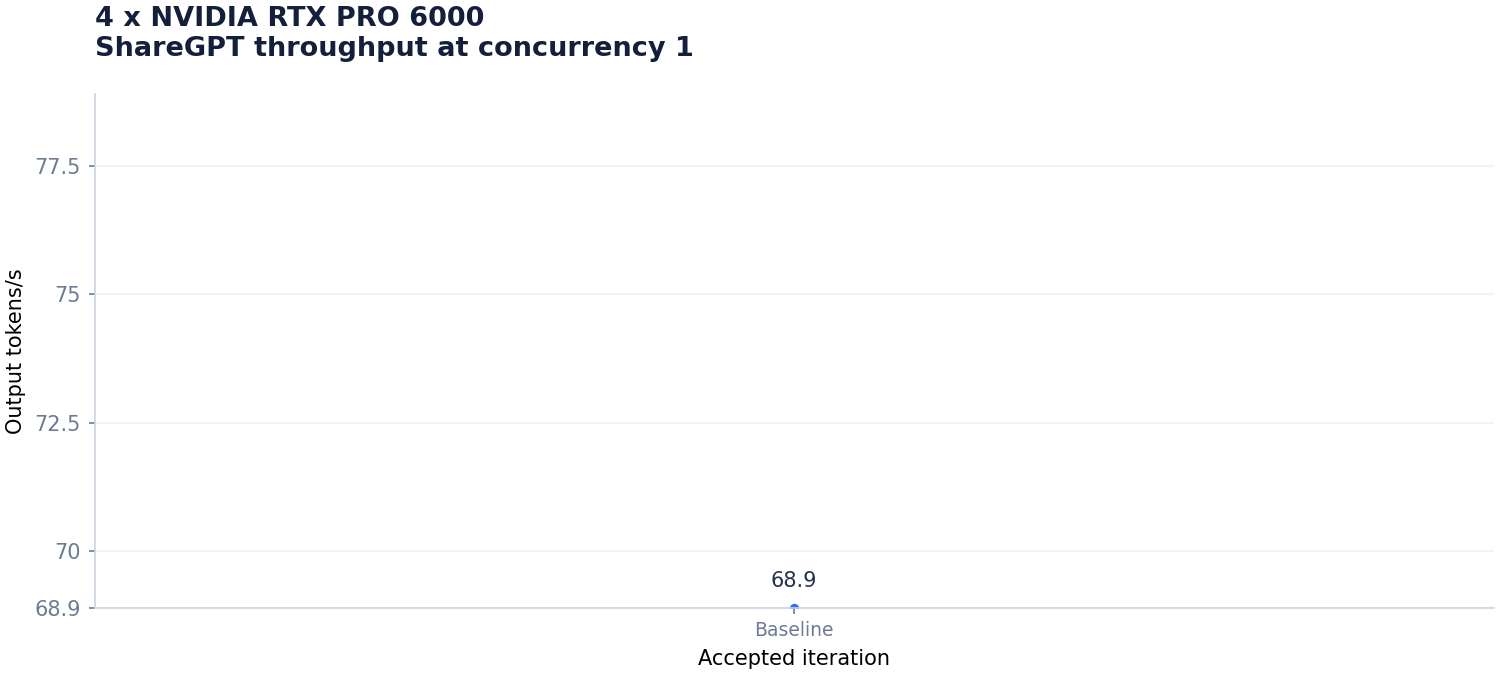
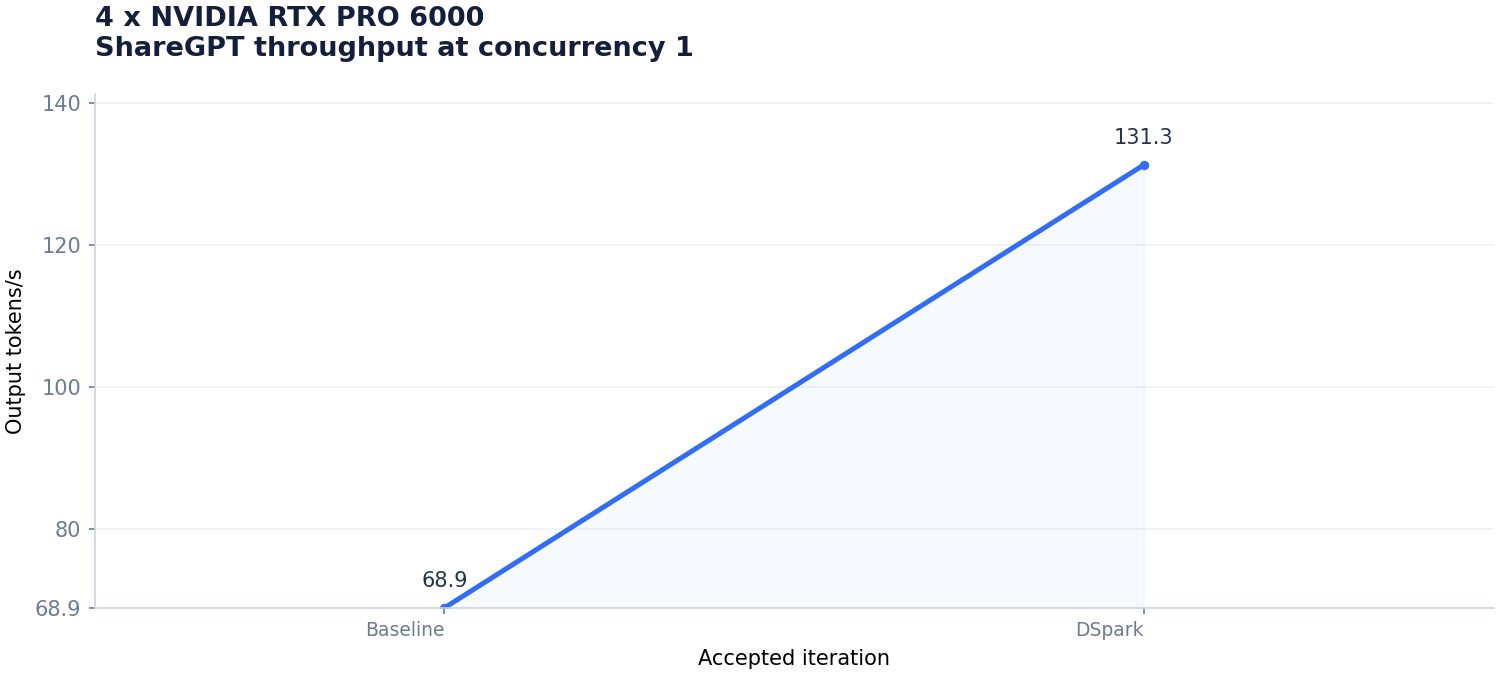
Add four GPU DSpark reference

diff --git a/4-nvidia-rtx-pro-6000/CHANGELOG.md b/4-nvidia-rtx-pro-6000/CHANGELOG.md
@@ -4,9 +4,11 @@ The patch is cumulative against `vllm/vllm-openai:v0.32.0`; every working milest
 
 FlashInfer 0.7.1 replaces the bundled 0.7.0.post1 for runtime page-size support, and both the sm120 compatibility patch and `--block-size 64` are required.
 
-## 0. Four-GPU baseline
+## 1. DSpark decoding
 
-- Reuse the eight-GPU track's cumulative sm120 patch and expert parallelism to run the checkpoint on four GPUs at its full context length.
+- Reuse three-token adaptive DSpark with local argmax reduction to verify multiple tokens per target pass without gathering the full vocabulary.
+- Raise GPU memory utilization to 97% because DSpark's larger CUDA graph allocation leaves no KV-cache blocks at the default 92%.
+-    --enable-expert-parallel
 
 Requirements, on a fresh vLLM image:
 
@@ -18,6 +20,7 @@ vllm_package_dir=$(python3 -c 'import importlib.util; print(importlib.util.find_
 patch --batch --forward -p1 -d "$vllm_package_dir/.." < 4-nvidia-rtx-pro-6000/diff.patch
 mkdir -p /tmp/nccl-tuner/tuner \
 nvcc -O3 -std=c++17 -shared -Xcompiler=-fPIC --cudart shared \
+export NCCL_TUNER_PLUGIN=/usr/local/lib/libvllm-sm120-tuner.so
 export NCCL_TUNER_PLUGIN=/usr/local/lib/libvllm-sm120-tuner.so
 ```
 
@@ -33,22 +36,25 @@ vllm serve deepseek-ai/DeepSeek-V4.1-Flash-1017 \
     --reasoning-parser deepseek_v41 \
     --mm-encoder-tp-mode data \
     --block-size 64 \
-    --enable-expert-parallel
+    --enable-expert-parallel \
+    --speculative-config '{"method":"dspark","num_speculative_tokens":3,"revision":"1bae0e1088993b9b82de08f59de5be5a34e42170","enable_adaptive_verification":true,"use_local_argmax_reduction":true}' \
+    --gpu-memory-utilization 0.97
 ```
 
 | Concurrency | Prompts | Output t/s | p95 TTFT (ms) | p95 TPOT (ms) |
 |---:|---:|---:|---:|---:|
-| 1 | 128 | 68.9 | 134.4 | 14.24 |
-| 4 | 128 | 216.8 | 103.5 | 18.08 |
-| 8 | 128 | 317.3 | 227.0 | 23.89 |
-| 16 | 128 | 425.8 | 308.0 | 33.99 |
-| 32 | 128 | 553.8 | 4002.8 | 45.14 |
-| 64 | 128 | 735.3 | 1037.5 | 82.04 |
-| 128 | 256 | 1147.5 | 1674.5 | 97.09 |
-| 256 | 512 | 1683.6 | 2808.1 | 184.56 |
+| 1 | 128 | 131.3 | 134.1 | 9.31 |
+| 4 | 128 | 305.4 | 139.3 | 14.95 |
+| 8 | 128 | 450.0 | 232.0 | 20.57 |
+| 16 | 128 | 646.7 | 306.9 | 29.31 |
+| 32 | 128 | 929.3 | 433.6 | 36.76 |
+| 64 | 128 | 1216.4 | 788.1 | 50.59 |
+| 128 | 256 | 1779.2 | 1669.4 | 76.92 |
+| 256 | 512 | 2090.1 | 5044.1 | 513.58 |
 
 ## Accepted progress
 
 | Stage | Change | c1 t/s | Revision |
 |---:|---|---:|---|
-| 0 | Four-GPU baseline | 68.9 | This revision |
+| 0 | Four-GPU baseline | 68.9 | [`98e3fb6`](https://github.com/alvarobartt/DeepSeek-V4.1-Flash-RTX-PRO-6000/tree/98e3fb632bb37dea066d2f7d9cb6f1b4a436cb4d) |
+| 1 | DSpark decoding | 131.3 | This revision |

diff --git a/README.md b/README.md
@@ -34,14 +34,14 @@ See the detailed changelog in [`8-nvidia-rtx-pro-6000/CHANGELOG.md`](8-nvidia-rt
 
 | Concurrency | Baseline t/s [^4gpu-baseline] | Baseline + DSpark t/s | Current t/s |
 |---:|---:|---:|---:|
-| 1 | **68.9** | Not measured | **68.9** |
-| 4 | **216.8** | Not measured | **216.8** |
-| 8 | **317.3** | Not measured | **317.3** |
-| 16 | **425.8** | Not measured | **425.8** |
-| 32 | **553.8** | Not measured | **553.8** |
-| 64 | **735.3** | Not measured | **735.3** |
-| 128 | **1147.5** | Not measured | **1147.5** |
-| 256 | **1683.6** | Not measured | **1683.6** |
+| 1 | 68.9 | **131.3 (+90.6%)** | **131.3 (+0.0%)** |
+| 4 | 216.8 | **305.4 (+40.9%)** | **305.4 (+0.0%)** |
+| 8 | 317.3 | **450.0 (+41.8%)** | **450.0 (+0.0%)** |
+| 16 | 425.8 | **646.7 (+51.9%)** | **646.7 (+0.0%)** |
+| 32 | 553.8 | **929.3 (+67.8%)** | **929.3 (+0.0%)** |
+| 64 | 735.3 | **1216.4 (+65.4%)** | **1216.4 (+0.0%)** |
+| 128 | 1147.5 | **1779.2 (+55.1%)** | **1779.2 (+0.0%)** |
+| 256 | 1683.6 | **2090.1 (+24.1%)** | **2090.1 (+0.0%)** |
 
 ![Accepted ShareGPT c1 throughput](4-nvidia-rtx-pro-6000/throughput.png)
 
